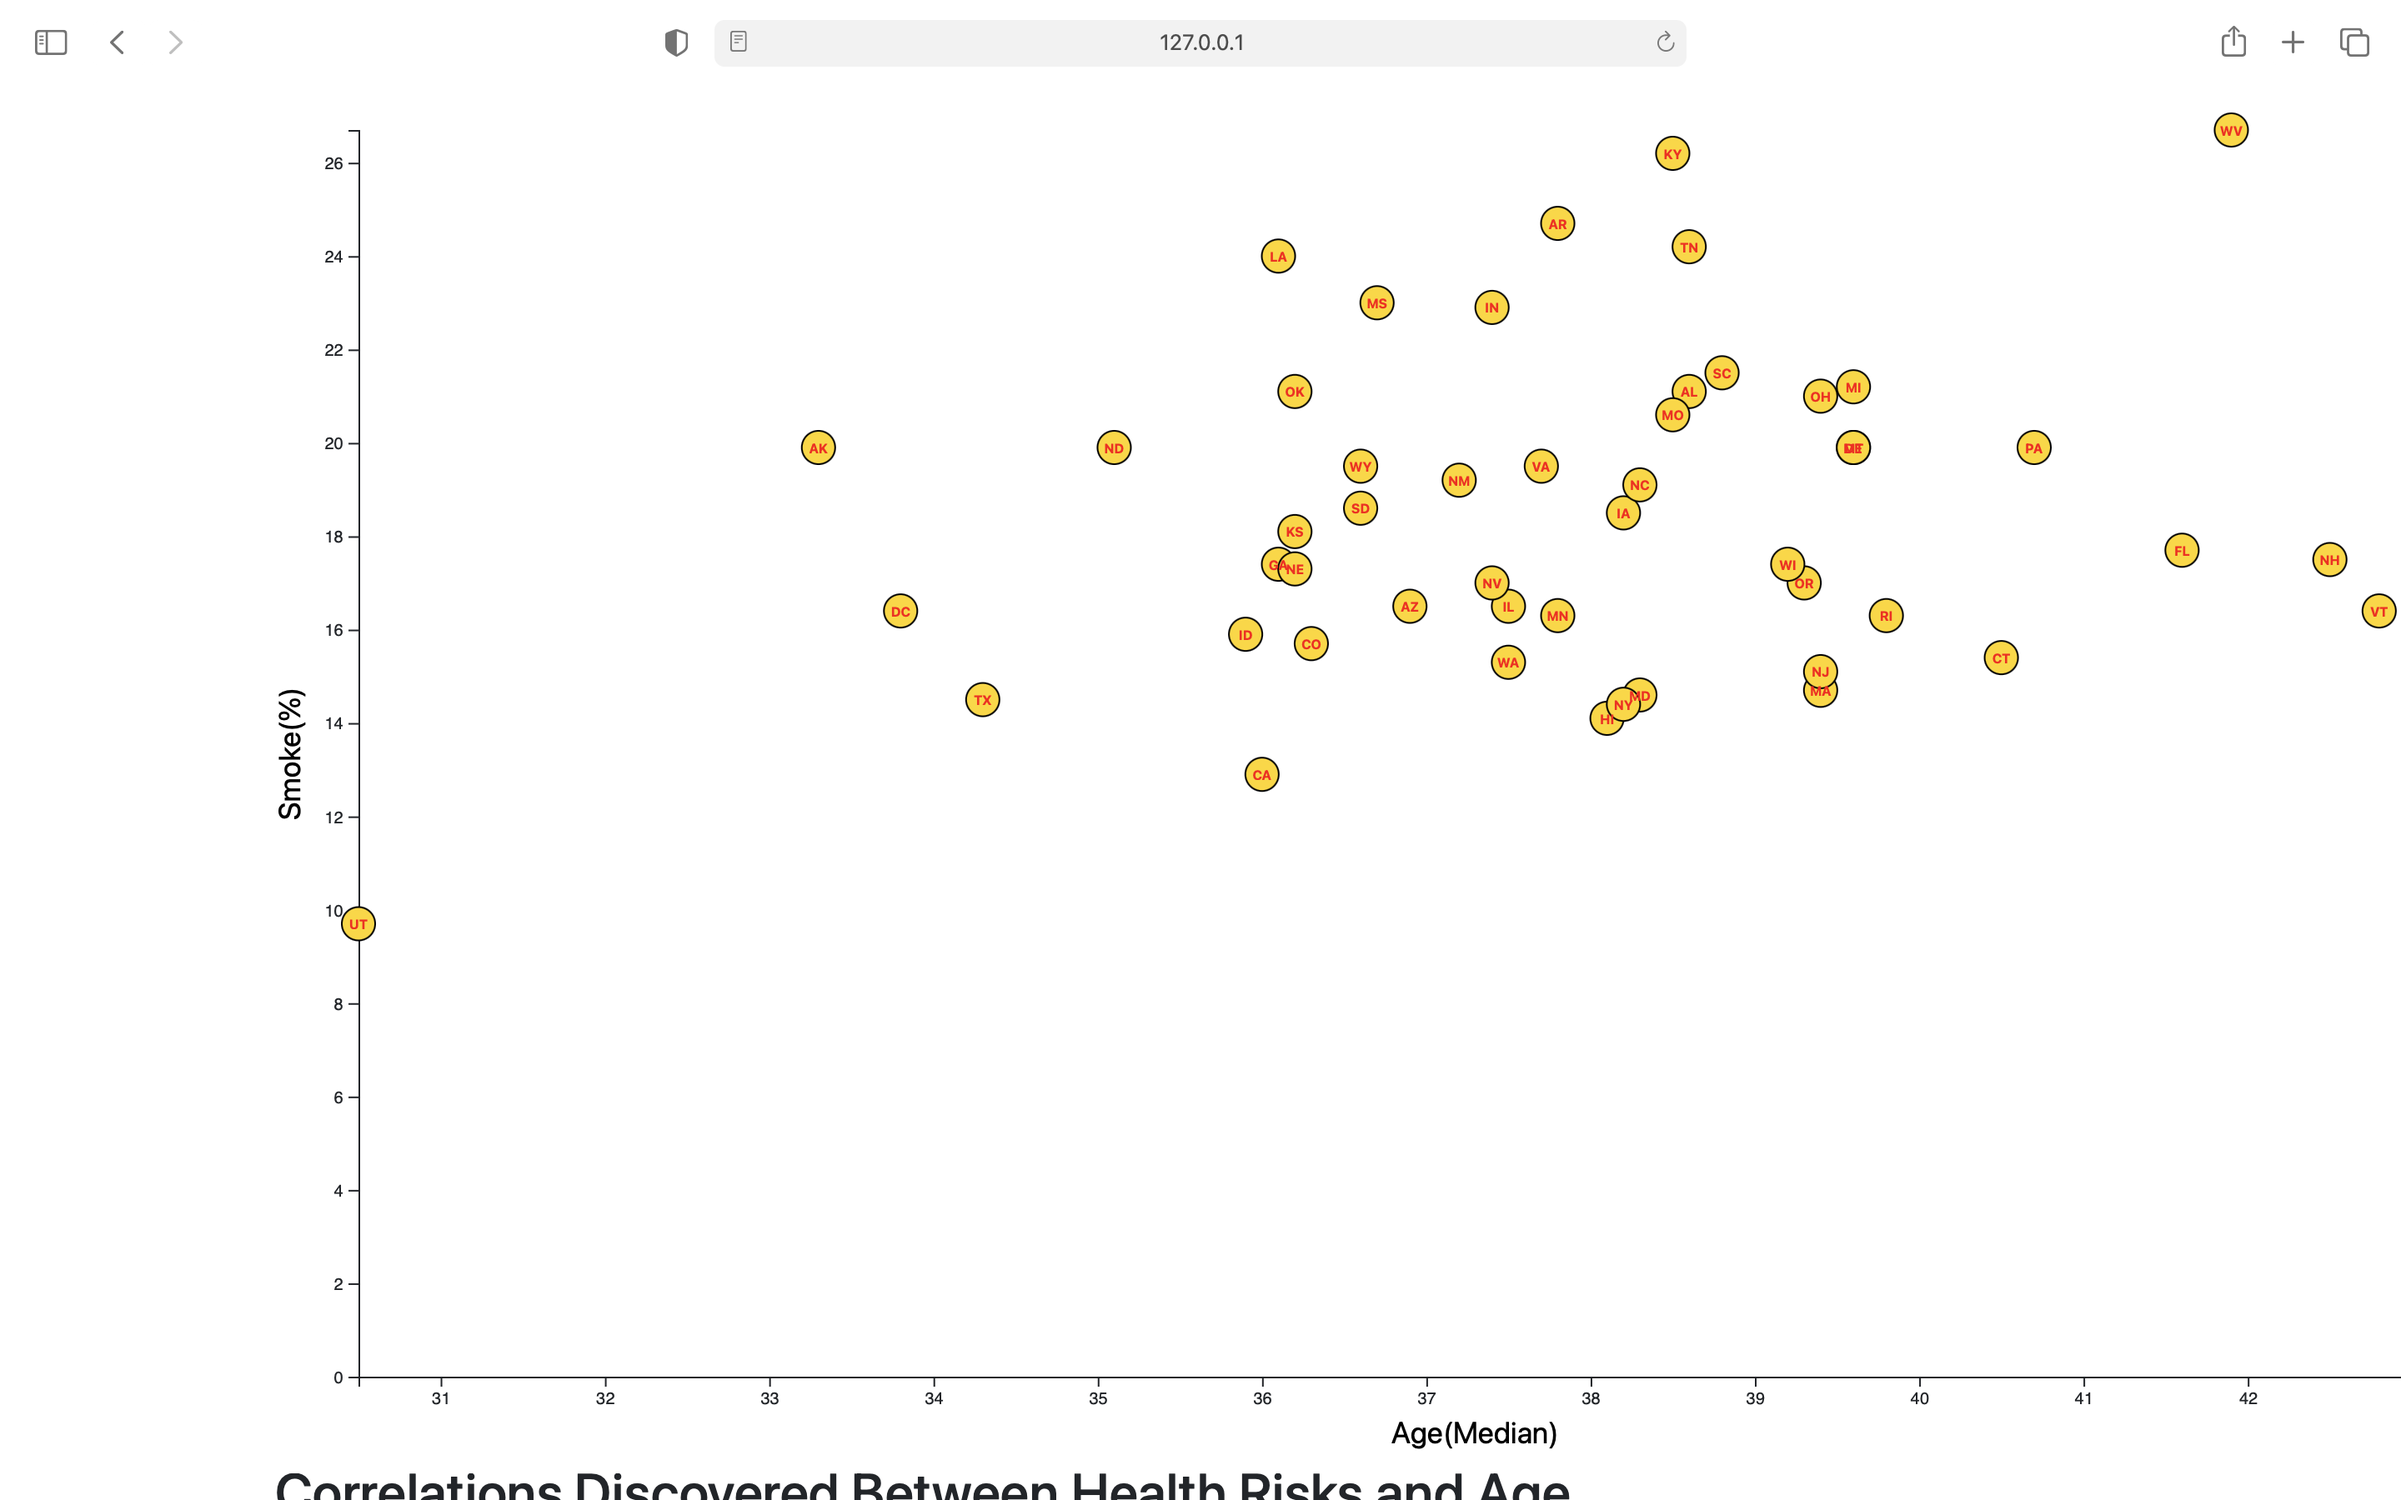
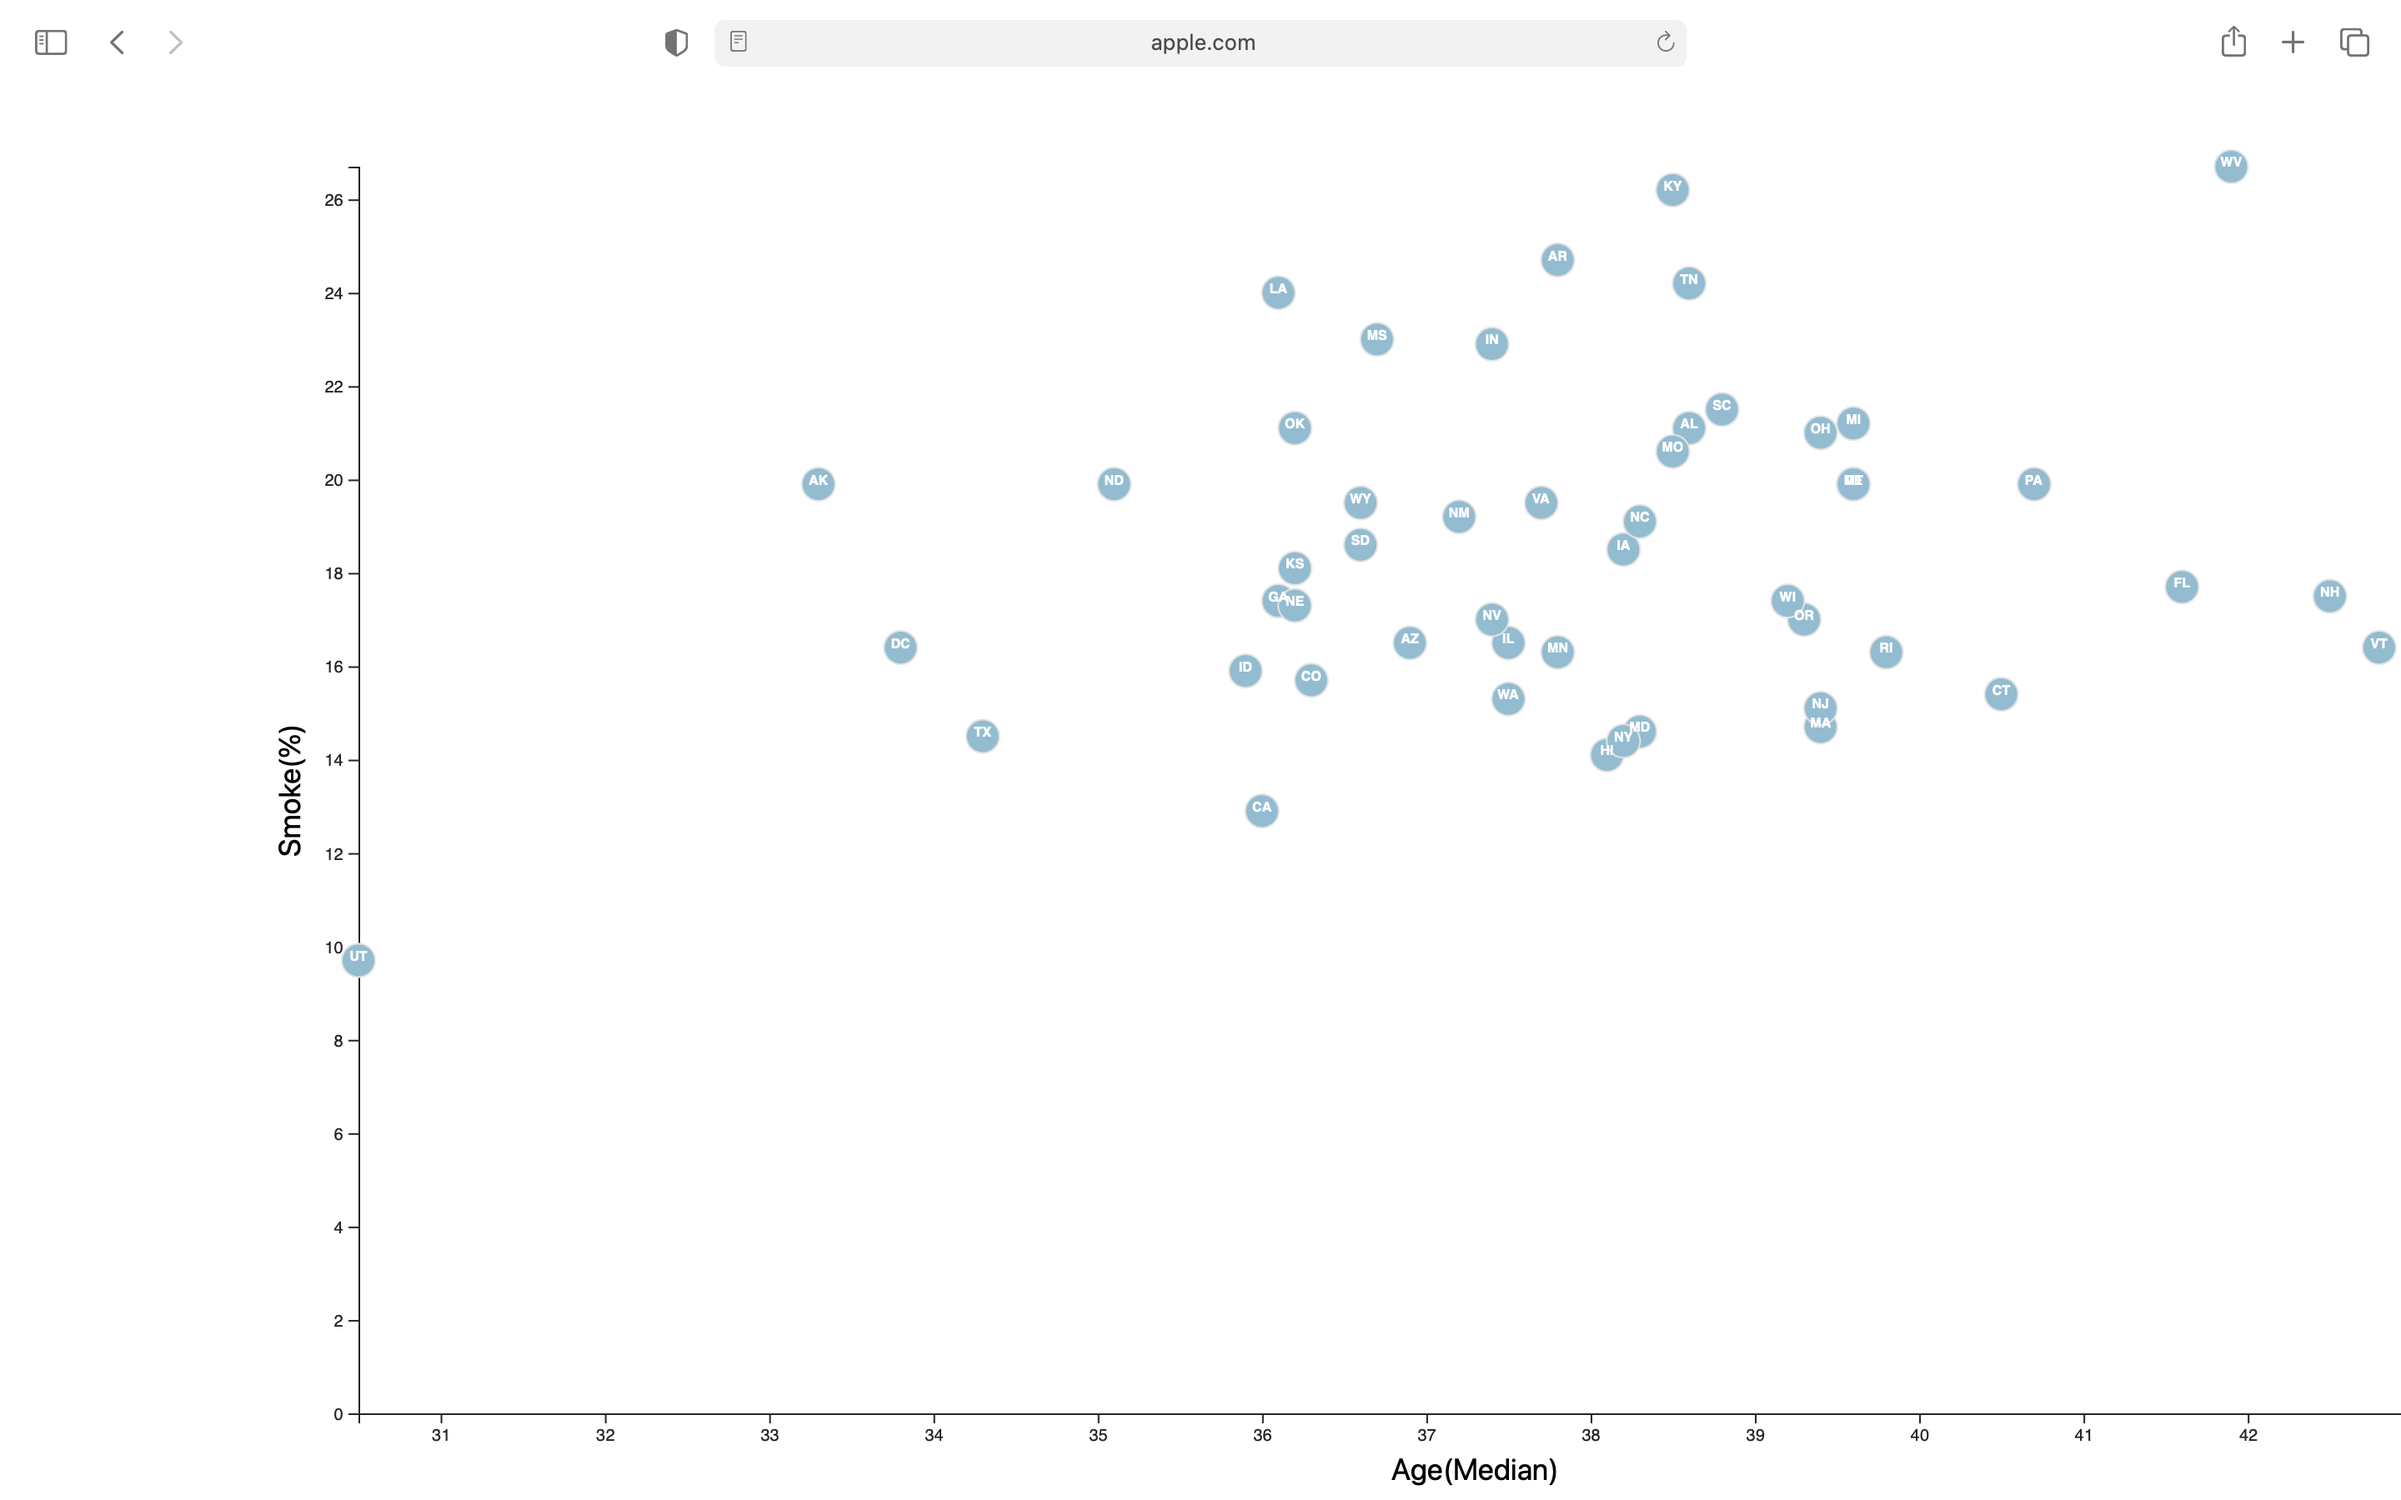
update HW

diff --git a/assets/js/app.js b/assets/js/app.js
@@ -73,27 +73,26 @@ function makeResponsive() {
         .call(yAxis);
 
       // append circles
-      var circlesGroup = chartGroup.selectAll("circle")
+      var circlesGroup = chartGroup.selectAll(".stateCircle")
         .data(healthData)
         .enter()
         .append("circle")
         .attr("cx", d => xLinearScale(d.age))
         .attr("cy", d => yLinearScale(d.smokes))
         .attr("r", "10")
-        .attr("fill", "gold")
+        .attr("class", "stateCircle")
         .attr("stroke-width", "1")
         .attr("stroke", "black");
-       
-      var circleText = chartGroup.append("g").selectAll("text")
+
+       // append text in circles
+      var circleText = chartGroup.selectAll(".stateText")
         .data(healthData)
         .enter()
         .append("text")
         .text(d => d.abbr)
         .attr("x", d => xLinearScale(d.age))
         .attr("y", d => yLinearScale(d.smokes))
-        .attr("text-anchor", "middle")
-        .attr("alignment-baseline", "central")
-        .attr("font_family", "sans-serif")
+        .attr("class", "stateText")
         .attr("font-size", "8px")
         .attr("fill", "red")
         .style("font-weight", "bold");
@@ -103,7 +102,7 @@ function makeResponsive() {
         chartGroup.append("text")
         .attr("transform", `translate(${width / 2}, ${height + margin.top - 10})`)
         .attr("text-anchor", "middle")
-        .attr("font-size", "18px")
+        .attr("font-size", "16px")
         .attr("fill", "black")
         .text("Age(Median)");
 
@@ -112,7 +111,7 @@ function makeResponsive() {
         .attr("y", 0 - (margin.left / 2 +10))
         .attr("x", 0 - (height / 2))
         .attr("text-anchor", "middle")
-        .attr("font-size", "18px")
+        .attr("font-size", "16px")
         .attr("fill", "black")
         .attr("transform", "rotate(-90)")
         .text("Smoke(%)");
